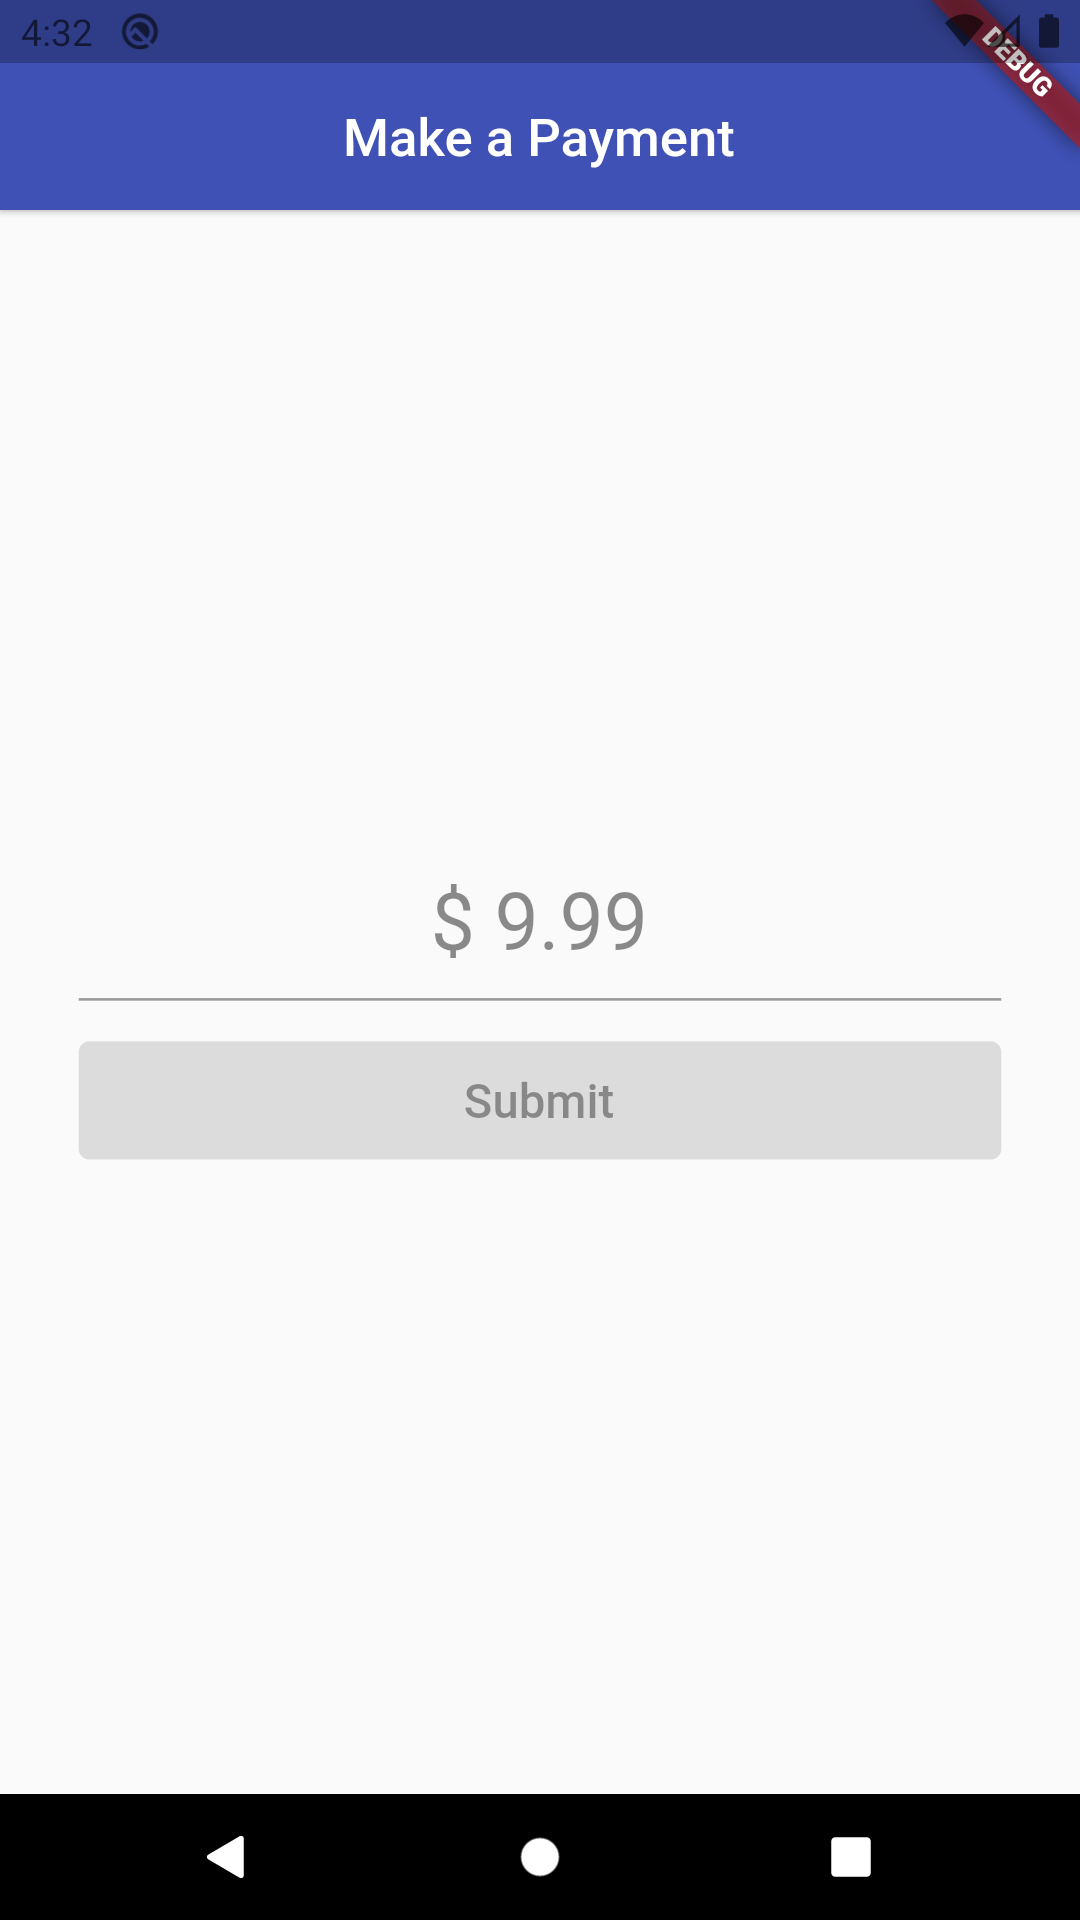
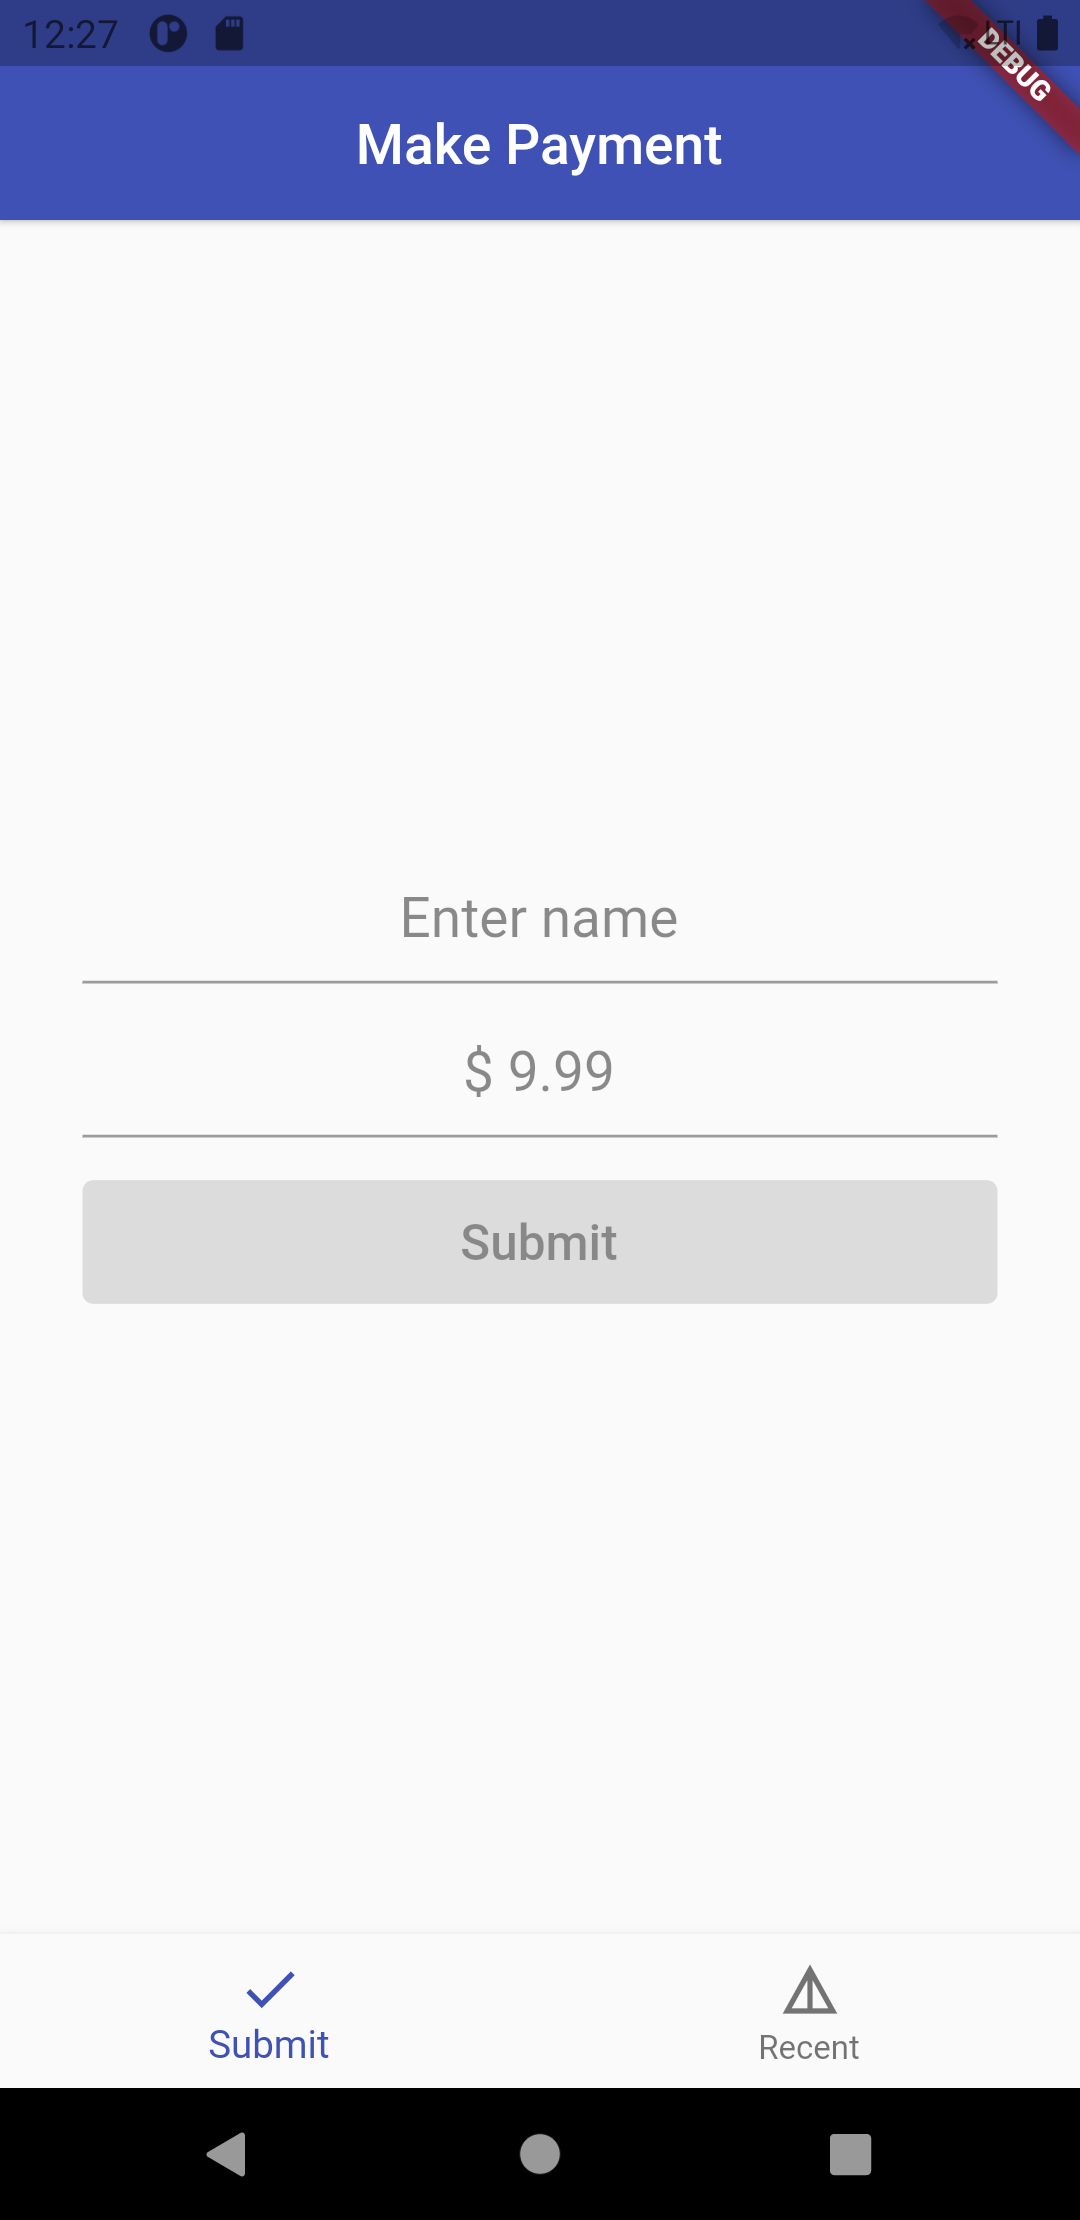
Update README, added screenshots

diff --git a/README.md b/README.md
@@ -1,6 +1,7 @@
 # Flutter Testing demo
 
-This project shows how to implement tests in Flutter 
+This project shows how to implement tests in Flutter
+
 <!-- , using various test methods (unit tests, widget tests, integration tests). -->
 
 ## Project goals
@@ -13,14 +14,20 @@ This project shows how to:
 
 ## Preview
 
-**Unit Test**
-
 <div style="text-align: center"><table><tr>
 <td style="text-align: center">
 <img src="screenshots/ss_one.png" width="200" />
 </td>
 <td style="text-align: center">
 <img src="screenshots/ss_two.png" width="200"/>
+</td>
+</td>
+<td style="text-align: center">
+<img src="screenshots/ss_three.png" width="200"/>
+</td>
+</td>
+<td style="text-align: center">
+<img src="screenshots/ss_four.png" width="200"/>
 </td>
 </tr></table>
 </div>
@@ -39,6 +46,10 @@ This project shows how to:
 
 - [x] Regex validation
 - [x] Custom `TextInputFormatter` for `TextField`
+
+### Recent payment page
+
+- [x] Shows payment history
 
 ## TODO
 
